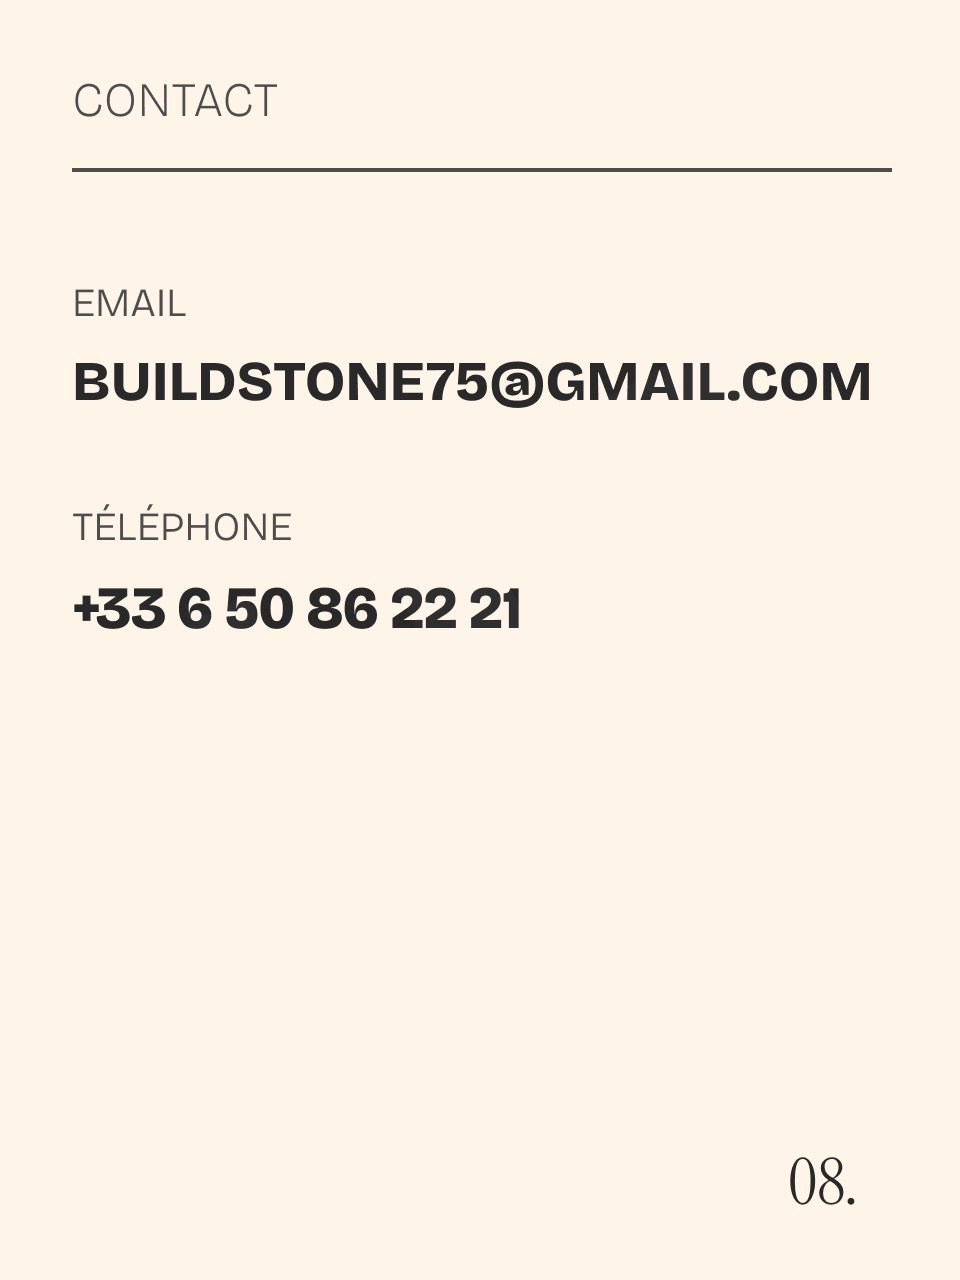
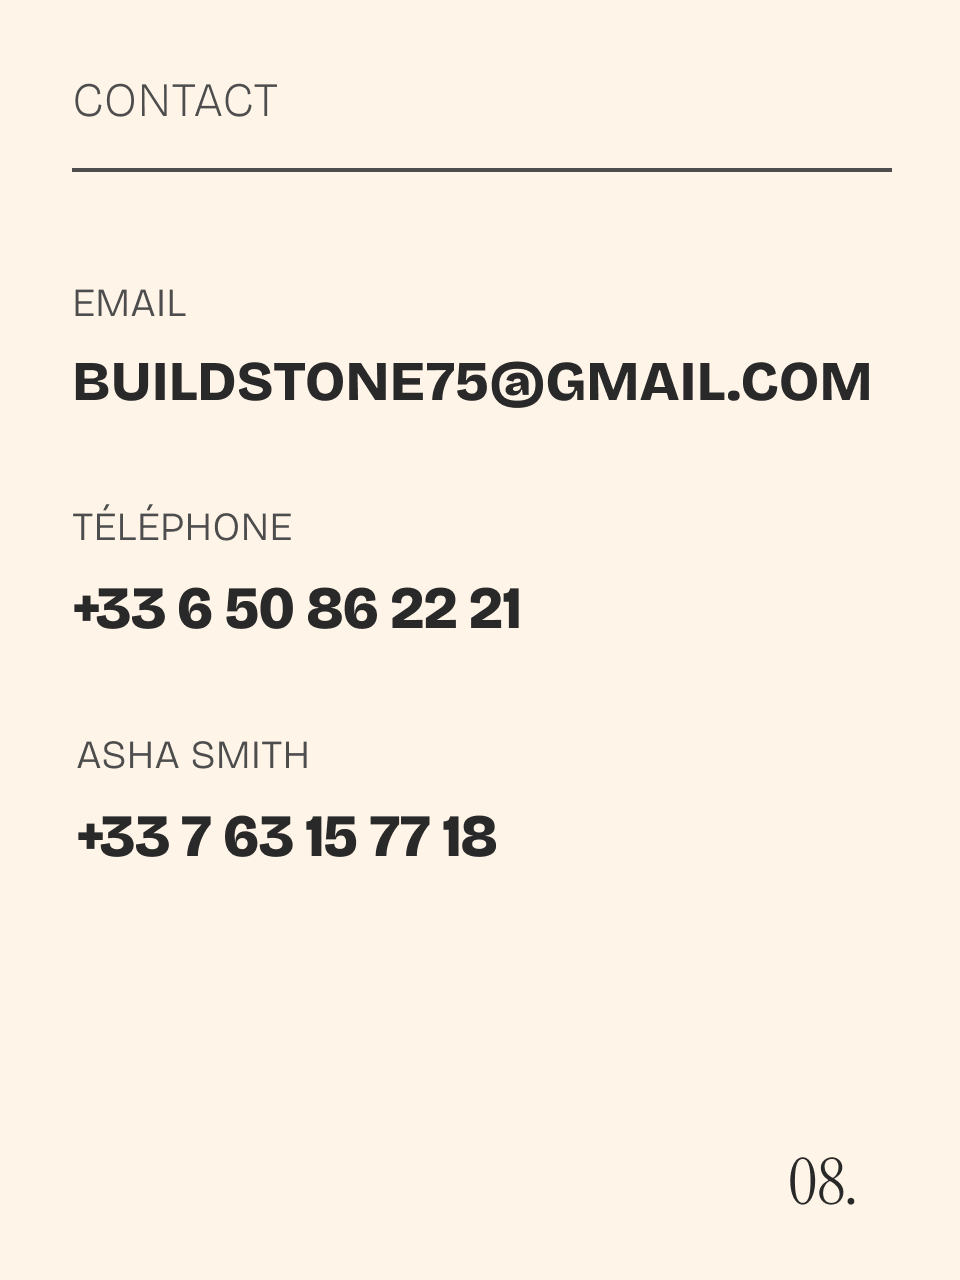
feat: few modifs

Changed region(s): [[0.0625, 0.625, 0.5312, 0.6875], [0.0938, 0.5625, 0.3125, 0.5938]]

diff --git a/src/sections/Book.tsx b/src/sections/Book.tsx
@@ -21,8 +21,9 @@ const textRevealVariants = {
 };
 
 const BOOK_BREAKPOINT = 1000;
-const BOOK_CAMERA_Z = 8;
-const MOBILE_BOOK_SCALE = 1.4;
+const MOBILE_BOOK_CAMERA_Z = 13;
+const DESKTOP_BOOK_CAMERA_Z = 10.5;
+const MOBILE_BOOK_SCALE = 1.9;
 const DESKTOP_BOOK_SCALE = 2;
 const BOOK_FLOATING_RANGE: [number, number] = [-0.004, 0.004];
 const BOOK_FLOAT_INTENSITY = 0.18;
@@ -102,6 +103,9 @@ const Book = () => {
   }, []);
 
   const bookScale = isLargeViewport ? DESKTOP_BOOK_SCALE : MOBILE_BOOK_SCALE;
+  const cameraZ = isLargeViewport
+    ? DESKTOP_BOOK_CAMERA_Z
+    : MOBILE_BOOK_CAMERA_Z;
   const canvasTouchAction = isLargeViewport
     ? DESKTOP_TOUCH_ACTION
     : MOBILE_TOUCH_ACTION;
@@ -110,7 +114,7 @@ const Book = () => {
     <section ref={sectionRef} className="relative w-full bg-cream">
       <BookPath />
       <div className="mx-auto flex max-w-6xl flex-col px-6 pt-24 pb-12 md:px-12 md:pt-32 relative">
-        <header className="relative z-10 max-w-xl -mb-[18vh] min-[600px]:max-w-110 min-[600px]:mx-auto min-[600px]:w-full min-[600px]:-mb-[14vh]">
+        <header className="relative z-10 max-w-xl mb-[-18vh] min-[600px]:max-w-110 min-[600px]:mx-auto min-[600px]:w-full min-[600px]:mb-[-14vh]">
           <div className="overflow-hidden mb-4">
             <motion.p
               custom={0}
@@ -152,16 +156,15 @@ const Book = () => {
           </div>
         </header>
 
-        <div className="relative h-[80vh] min-h-125 w-full touch-pan-y md:h-[88vh] md:min-h-180">
+        <div
+          className="relative -mx-6 h-[85vh] min-h-125 touch-pan-y md:mx-0 md:h-[95vh] md:min-h-180"
+          style={{ filter: "drop-shadow(0px 8px 32px rgba(80, 45, 10, 0.30))" }}
+        >
           <PageFlipAudio />
           <Loader />
           <Canvas
-            camera={{ position: [0, 0, BOOK_CAMERA_Z], fov: 45 }}
-            style={{
-              touchAction: canvasTouchAction,
-              filter:
-                "drop-shadow(0 2px 2px rgba(41,41,41,0.18)) drop-shadow(0 22px 28px rgba(41,41,41,0.22))",
-            }}
+            camera={{ position: [0, 0, cameraZ], fov: 33 }}
+            style={{ touchAction: canvasTouchAction }}
           >
             <Suspense fallback={null}>
               <Float
@@ -181,7 +184,7 @@ const Book = () => {
           </Canvas>
         </div>
 
-        <div className="relative z-10 -mt-[15vh] min-[600px]:max-w-110 min-[600px]:mx-auto min-[600px]:w-full min-[600px]:-mt-[11vh]">
+        <div className="relative z-10 mt-[-15vh] min-[600px]:max-w-110 min-[600px]:mx-auto min-[600px]:w-full min-[600px]:mt-[-11vh]">
           <Pagination />
         </div>
       </div>

diff --git a/src/sections/HomePageDesktop.tsx b/src/sections/HomePageDesktop.tsx
@@ -1,4 +1,5 @@
 import { useLenis } from "lenis/react";
+import { motion } from "motion/react";
 import { useRef } from "react";
 
 const FADE_RANGE_VH = 0.4;
@@ -30,7 +31,7 @@ const HomePageDesktop = () => {
           aria-hidden="true"
           draggable={false}
           fetchPriority="high"
-          className="absolute top-0 left-0 h-[130vh] w-full object-cover will-change-transform"
+          className="absolute top-0 left-0 w-full object-cover will-change-transform"
         />
         <div className="relative flex flex-col items-center justify-center h-full w-full font-serif text-cream">
           <div className="flex flex-col items-start w-fit">
@@ -42,6 +43,24 @@ const HomePageDesktop = () => {
                 <span className="text-build-stone text-42">.</span>
               </h2>
               <hr className="my-3 h-px border-none bg-linear-to-r from-border to-transparent w-73" />
+            </div>
+            <div className="mt-6 w-full text-center">
+              <button
+                type="button"
+                className="cursor-pointer text-6xl text-cream"
+              >
+                <motion.span
+                  className="inline-block will-change-transform"
+                  animate={{ y: [0, 8, 0] }}
+                  transition={{
+                    duration: 1.8,
+                    ease: [0.45, 0, 0.55, 1],
+                    repeat: Infinity,
+                  }}
+                >
+                  ↓
+                </motion.span>
+              </button>
             </div>
           </div>
 

diff --git a/src/sections/Process.tsx b/src/sections/Process.tsx
@@ -25,7 +25,7 @@ const STAGES: readonly Stage[] = [
   {
     number: "01.",
     title: "Analyse du projet.",
-    description: "Étude des besoins et contraintes techniques.",
+    description: "Étude des besoins et contraintes.",
     side: "left",
   },
   {
@@ -37,7 +37,7 @@ const STAGES: readonly Stage[] = [
   {
     number: "03.",
     title: "Planification.",
-    description: "Organisation du chantier et coordination des intervenants.",
+    description: "Organisation et coordination du chantier.",
     side: "left",
   },
   {
@@ -63,7 +63,7 @@ const DOTS: readonly DotPos[] = [
 ];
 
 const TEXT_POS: readonly TextPos[] = [
-  { top: "15%", left: "-70px", width: "120px" },
+  { top: "15%", left: "-70px", width: "100px" },
   { top: "27%", right: "-90px", width: "140px" },
   { top: "40%", left: "-70px", width: "150px" },
   { top: "55%", right: "-90px", width: "140px" },

diff --git a/src/components/book/Book3D.tsx b/src/components/book/Book3D.tsx
@@ -99,14 +99,13 @@ pageGeometry.setAttribute(
   new Float32BufferAttribute(skinWeights, 4),
 );
 
-const PAGE_BASE_COLOR = "#fff4e8";
 const HOVER_TINT_COLOR = new Color("#ffd9b0");
 
 const pageMaterials = [
-  new MeshBasicMaterial({ color: PAGE_BASE_COLOR, toneMapped: false }),
+  new MeshBasicMaterial({ color: "#b89a6e", toneMapped: false }), // tranche gauche
   new MeshBasicMaterial({ color: "#111", toneMapped: false }),
-  new MeshBasicMaterial({ color: PAGE_BASE_COLOR, toneMapped: false }),
-  new MeshBasicMaterial({ color: PAGE_BASE_COLOR, toneMapped: false }),
+  new MeshBasicMaterial({ color: "#b89a6e", toneMapped: false }), // tranche haut
+  new MeshBasicMaterial({ color: "#b89a6e", toneMapped: false }), // tranche bas
 ];
 
 type PageProps = PageData & {

diff --git a/src/components/HeroImageCard.tsx b/src/components/HeroImageCard.tsx
@@ -10,7 +10,7 @@ const HeroImageCard = ({ isRevealed }: HeroImageCardProps) => {
       initial={{ opacity: 0 }}
       animate={{ opacity: isRevealed ? 1 : 0 }}
       transition={{ duration: 0.92, ease: [0.22, 1, 0.36, 1] }}
-      className="relative h-[50vh]"
+      className="relative h-[45vh]"
       style={{
         maskImage:
           "linear-gradient(to bottom, transparent, black 28%, black 72%, transparent)",

diff --git a/src/sections/HomePageMobile.tsx b/src/sections/HomePageMobile.tsx
@@ -82,7 +82,7 @@ const HomePageMobile = ({ isRevealed }: HomePageMobileProps) => {
               coordination de chantier.
             </motion.p>
           </div>
-          <div className="mt-4 overflow-hidden text-center">
+          <div className="-mt-2 overflow-hidden text-center">
             <motion.button
               custom={0.3}
               initial="hidden"
